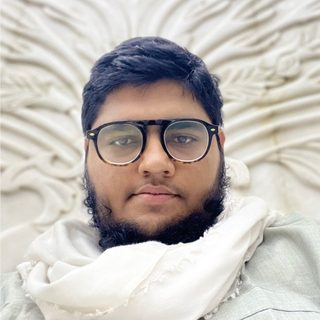
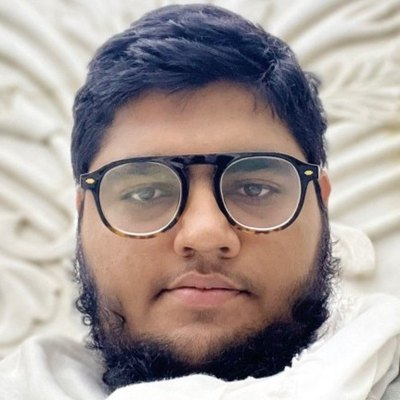
Team photos in colour, cropped to the face; new photo of Ammar
Claude-Session: https://claude.ai/code/session_01JnCSaabYYvsX8a8nSkeWa6

diff --git a/index.html b/index.html
@@ -307,7 +307,7 @@ a.tag.flag:hover{background:var(--blue-strong)}
 .name-note p{font-size:14.5px}
 .team{display:grid;grid-template-columns:repeat(4,minmax(0,1fr));gap:36px 28px;margin-top:clamp(48px,6vw,72px);padding-top:clamp(40px,5vw,56px);border-top:1px solid var(--line)}
 .person{display:grid;gap:14px;align-content:start}
-.person img{width:88px;height:88px;border-radius:50%;object-fit:cover;filter:grayscale(1) contrast(1.05);background:var(--line)}
+.person img{width:88px;height:88px;border-radius:50%;object-fit:cover;object-position:center;background:var(--line)}
 .person h3{font-size:17px;font-weight:700;letter-spacing:-.01em;line-height:1.25}
 .person .role{font-family:var(--f-mono);font-size:11.5px;letter-spacing:.06em;text-transform:uppercase;color:var(--blue);margin-top:6px}
 .person p{font-size:14.5px;color:var(--ink-2);margin-top:10px;line-height:1.55}
